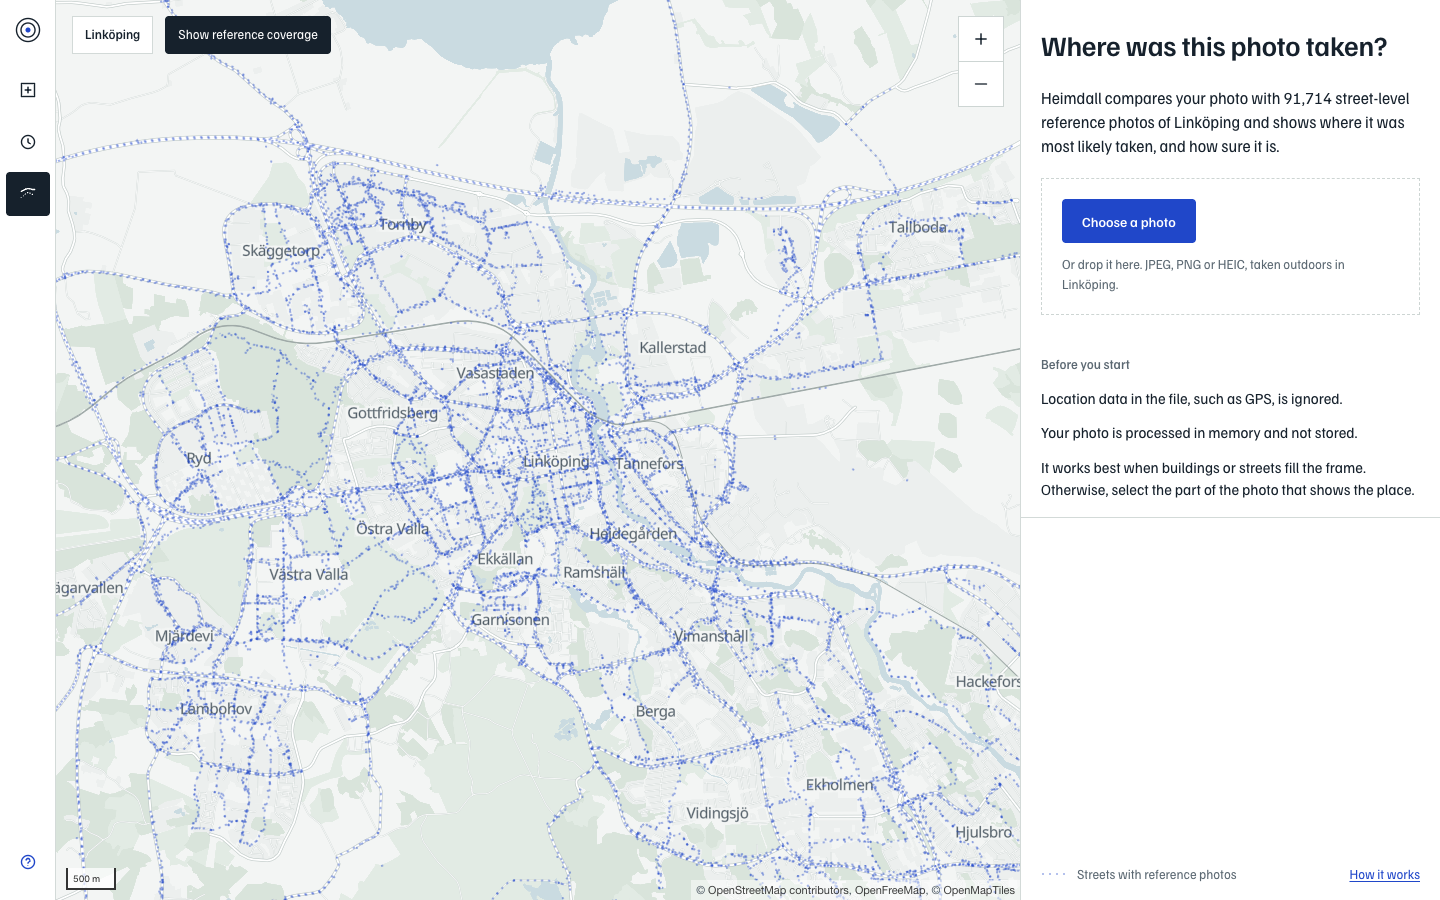
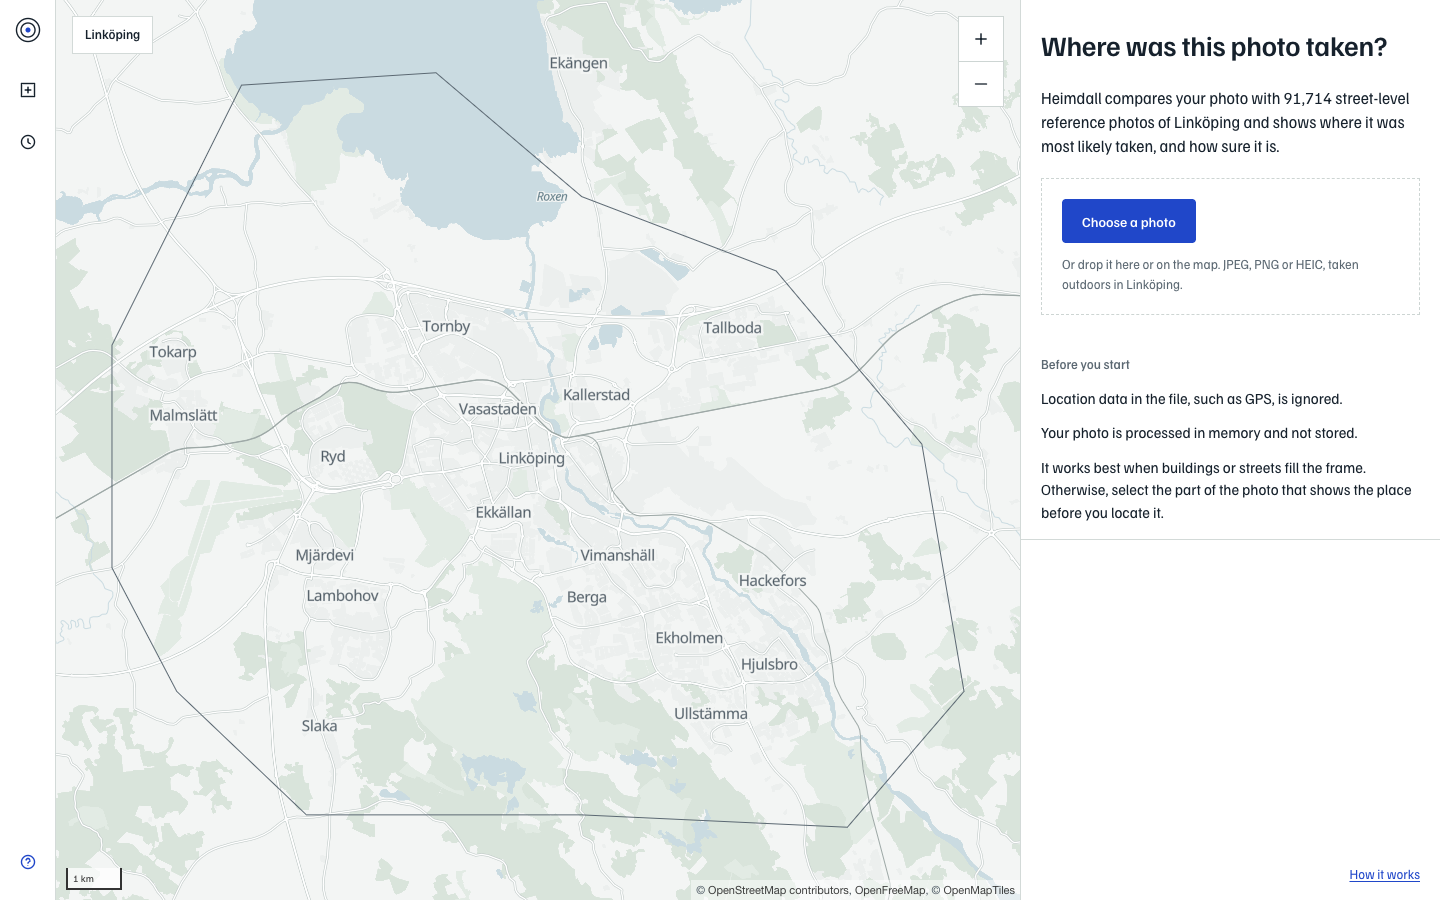
docs: update demo walkthrough and capture streaming UI states

diff --git a/docs/DEMO.md b/docs/DEMO.md
@@ -27,64 +27,128 @@ End-to-end (with the demo running): `node scripts/e2e.mjs <expected.json>`.
 
 ## What the page does ("Heimdall" workspace)
 
-A light, map-first workspace. All inference stays in FastAPI: the page calls only the
-public endpoints (`POST /predict`, `GET /references/{id}/image`, `GET /ready`).
+A light, map-first workspace. All inference stays in FastAPI; the page calls only the
+public endpoints (`POST /predict/stream`, `GET /references/{id}/image`).
 
-- **Layout (desktop, >= 1100 px):** rail (new search, recent searches for this session,
-  reference coverage, How it works), full-height MapLibre map, 420 px inspector.
-  **Mobile (375–430 px):** map on top with floating 44 px buttons, result in a bottom
-  sheet, compare full screen.
-- **Map:** OpenFreeMap vector tiles restyled from the design tokens (muted roads, pale
-  water, 2D buildings, district names), attribution "© OpenStreetMap contributors,
-  OpenFreeMap, © OpenMapTiles". Reference coverage: cobalt dots along streets that have a
-  reference within 25 m (`public/data/coverage.geojson`).
-- **Contour rings (uncertainty):** each candidate gets 3 rings whose spacing comes from one
-  documented function of its matching details (`src/lib/rings.ts`). The prediction is a
-  cobalt pin with solid rings; other candidates are numbered squares with wider dashed
-  rings. A callout with the place name and coordinates is joined to the selected point.
-- **Inspector:** file name and time, the photo with **Select region** (only the
-  highlighted part is searched; drag or use the arrow keys, Shift resizes), the state
-  line (Confident / Low confidence), place name, coordinates with Copy, one plain
-  reason built from the API data, **Other candidates** (synced with the map), and **Your
-  region and the match** (swipe compare with a keyboard slider and the credit line).
-- **Region:** `POST /predict` takes an optional form field `region` = JSON
-  `{"x","y","width","height"}` normalised to the upright photo; retrieval and re-ranking
-  both see only that part (`swespy/model/imageio.py:crop_region`, tested).
+### Flow: photo, region, then Locate
+
+1. **Choose or drop a photo:** use the button, or drop it anywhere on the map, which shows
+   a full-map "Drop to add photo" target. The photo appears with region selection active.
+   **Nothing is sent until Locate is pressed.**
+2. **Optionally drag a box** around the part that shows the place (keyboard: arrows move
+   it, Shift with arrows resizes). "Use whole photo" clears it.
+3. **Locate.** After a result, "Change region" lets you adjust the box and locate again.
+
+### The locating sequence (the map is the loading state)
+
+Driven by the streamed pipeline events, not by timers. Each phase holds a minimum time so
+fast answers still read clearly.
+
+| Event from `/predict/stream` | Map | Inspector |
+| --- | --- | --- |
+| Locate pressed (min 900 ms) | Dims (paper at 55%, soft vignette); frames the Linköping polygon, tilts to 35°, rotates about 4°/s. Centre label "Searching Linköping" with Cancel | Stage list: "Search reference photos" running |
+| `candidates` (top 50) | Rotation continues; 50 dots fade in, strongest first, over ~600 ms. Label: "Comparing the 5 closest matches" | Search done (seconds); "Compare closest matches" running |
+| `stage: verification` | Rotation stops; ~1.2 s flight to the top 5; the other 45 dots fade out; wide dashed rings | |
+| `verified` × 5 | Each candidate's rings ease to their final radius (500 ms): tight for strong matches, wide for weak | |
+| `result` | Dim lifts; flight to the best match at zoom 16, pitch 45°, 3D buildings; prediction rings draw in, inner to outer; callout fades in | Sections fill; the stage list collapses to "Located in 4.1 s" (expand for per-stage times) |
+
+- **Cancel:** aborts the request, which stops the work on the server; lifts the dim;
+  returns the camera; keeps the photo and region.
+- **Errors:** the label becomes the message plus "Try again".
+- **Reduced motion:** no flights or rotation (camera jumps), states crossfade, rings
+  appear at their final size.
+- **Candidate selection after the result:** flies between candidates at pitch 45° in
+  ~800 ms.
+
+**Reference coverage** is no longer in the workspace. It's a static, non-interactive map
+on `/about` with a sentence explaining it. The workspace never requests coverage or
+gallery points; the only reference image it loads is the matched one, in the compare
+view after a result.
+
+### Streaming API
+
+`POST /predict/stream` (same form fields as `/predict`) returns NDJSON
+(`application/x-ndjson`). Events, in order:
+- `{"type":"stage","stage":"retrieval"}`
+- `{"type":"candidates","items":[{id,lat,lng,similarity}×50]}`: locations only, never images or sources
+- `{"type":"stage","stage":"verification","count":5}`
+- `{"type":"verified","id","inliers","score"}`, one per candidate as it completes
+- `{"type":"result", …exactly /predict's response…}`
+- `{"type":"error","message"}` on failure
+
+How it's built and verified:
+- **One code path:** both routes run `GeoLocator.locate_events`; `/predict` returns its
+  final result, so the two cannot differ. On the running stack the streamed result was
+  byte-identical to `/predict` for 3 dev photos, and both match the frozen evaluation.
+- **Cancellation:** a client disconnect sets a flag the pipeline checks between steps
+  (tested: work stops within one step).
+- **Proxy:** the Next.js proxy passes the stream through unbuffered. Measured: candidates
+  at 1.3 s, each verification ~0.35 s apart, result at 4.2 s.
+
+### Region, place names, About
+
+- **Region:** the form field `region` = JSON `{"x","y","width","height"}`, normalised to
+  the upright photo; retrieval and re-ranking both see only that part.
 - **Place names:** offline reverse geocoding from OpenStreetMap street and district names
-  (`public/data/places.json`, generated by `scripts/build_web_data.py`).
-- **About page (`/about`):** what it does, how, the dev results with 95% intervals (read
-  from `eval/results/dev_historic_rerank.json` at build time by `web/scripts/prepare.mjs`),
-  failure modes with a real manual-crop example (all attempts recorded by
-  `scripts/crop_example.py`), data and licences, and what it does not do.
-- **Not in this design:** the earlier "save this photo for later evaluation" option. The
-  `POST /field-photos` endpoint is unchanged.
+  (`public/data/places.json`).
+- **About:** the dev results with 95% intervals, read from
+  `eval/results/dev_historic_rerank.json` at build time; the coverage map; failure modes
+  with a real manual-crop example; data and licences.
 
-### Checks (2026-11-10)
+### Checks (2026-11-11)
 
 | Check | Result |
 | --- | --- |
-| Playwright, 1440×900 and 390×844 (`web/scripts/e2e.mjs`) | 24 / 24 |
-| API-equals: UI top 5, details and state = eval, 3 dev photos | pass (2 Confident, 1 Low confidence) |
-| Keyboard: Tab reaches every action; Enter selects candidates (list and map); arrows move the region and the compare divider | pass |
-| Focus ring | 2 px solid cobalt, 2 px offset (computed style checked) |
-| Contrast (`npm run check:contrast`), 23 pairs | all pass WCAG AA (lowest 4.55:1, street names) |
-| Off-token values (`npm run check:tokens`) | none |
-| Type check, lint | clean |
+| Python suites | 173 + 178 passed |
+| Stream tests | order and schema; same result as `/predict`; disconnect cancels work (`tests/integration/test_predict_stream.py`) |
+| Real model, 3 dev photos | stream result = `/predict`, exactly |
+| Playwright (`web/scripts/e2e.mjs`), 1440×900 and 390×844 | 32 / 33 |
+| Nothing sent before Locate; region active by default; drawn region sent | pass |
+| Status label follows the stream; "Located in …" with stage timings | pass |
+| API-equals: UI top 5, details and state = eval, 3 dev photos | pass |
+| Cancel mid-verification (photo and region kept, Locate offered); error label with Try again | pass |
+| Network: no coverage or gallery-point requests in the workspace | pass |
+| Keyboard; focus ring 2 px cobalt, 2 px offset; contrast; tokens; type check; lint | pass |
+| **Frame budget: no long task > 100 ms** | **Not fully met**, see below |
+
+**Frame budget on the M1.**
+- With screenshots off, most runs have no long task at all. About 1 run in 9 has a single
+  frame of 109–181 ms, always while the API is still computing.
+- The API's feature extractor (ALIKED) runs on the same Apple GPU that renders the map, so
+  that is likely contention, though not proven.
+- Seen once: one 95 ms frame at Locate, when the tilted camera loads many tiles.
+- Hiding labels while the map is dimmed did not remove the slow frames; the label hiding
+  was kept.
+- Moving verification to the CPU would avoid the overlap but makes that step about 4×
+  slower.
 
 ### Screenshots
 
-| Desktop 1440×900 | |
-| --- | --- |
-| Empty state, coverage on | ![](screenshots/desktop-1-empty.png) |
-| Result (Confident) | ![](screenshots/desktop-2-result.png) |
-| Region selected | ![](screenshots/desktop-3-region.png) |
-| Candidate 3 selected (list and map) | ![](screenshots/desktop-4-candidate3.png) |
-| Compare | ![](screenshots/desktop-5-compare.png) |
-| How it works (`/about`) | ![](screenshots/desktop-6-about.png) |
+**Locating sequence** (1440×900, fixed times after Locate):
 
-| Mobile 390×844 | | |
-| --- | --- | --- |
-| ![](screenshots/mobile-1-empty.png) | ![](screenshots/mobile-2-result.png) | ![](screenshots/mobile-3-compare.png) |
+| | |
+| --- | --- |
+| ![](screenshots/sequence-01-0.3s.png) 0.3 s | ![](screenshots/sequence-02-0.9s.png) 0.9 s |
+| ![](screenshots/sequence-03-1.5s.png) 1.5 s | ![](screenshots/sequence-04-2.1s.png) 2.1 s |
+| ![](screenshots/sequence-05-2.7s.png) 2.7 s | ![](screenshots/sequence-06-3.3s.png) 3.3 s |
+| ![](screenshots/sequence-07-4.0s.png) 4.0 s | ![](screenshots/sequence-08-4.8s.png) 4.8 s |
+| ![](screenshots/sequence-09-5.8s.png) 5.8 s | ![](screenshots/sequence-10-7.5s.png) 7.5 s |
+
+**Other states:**
+
+| | |
+| --- | --- |
+| Empty state (polygon outline, no coverage) | ![](screenshots/desktop-1-empty.png) |
+| Photo chosen, region active, Locate | ![](screenshots/desktop-2-ready.png) |
+| Result | ![](screenshots/desktop-3-result.png) |
+| Result with a drawn region | ![](screenshots/desktop-4-region-result.png) |
+| Candidate 3 selected | ![](screenshots/desktop-5-candidate3.png) |
+| Compare | ![](screenshots/desktop-6-compare.png) |
+| Cancel during verification: before / after | ![](screenshots/cancel-1-before.png) ![](screenshots/cancel-2-after.png) |
+| Error | ![](screenshots/error.png) |
+| Reduced motion | ![](screenshots/reduced-1.png) ![](screenshots/reduced-2.png) ![](screenshots/reduced-3-result.png) |
+| About, with the coverage map | ![](screenshots/desktop-7-about.png) |
+| Mobile 390×844 | ![](screenshots/mobile-1-empty.png) ![](screenshots/mobile-2-result.png) ![](screenshots/mobile-3-compare.png) |
 
 ## Privacy
 
